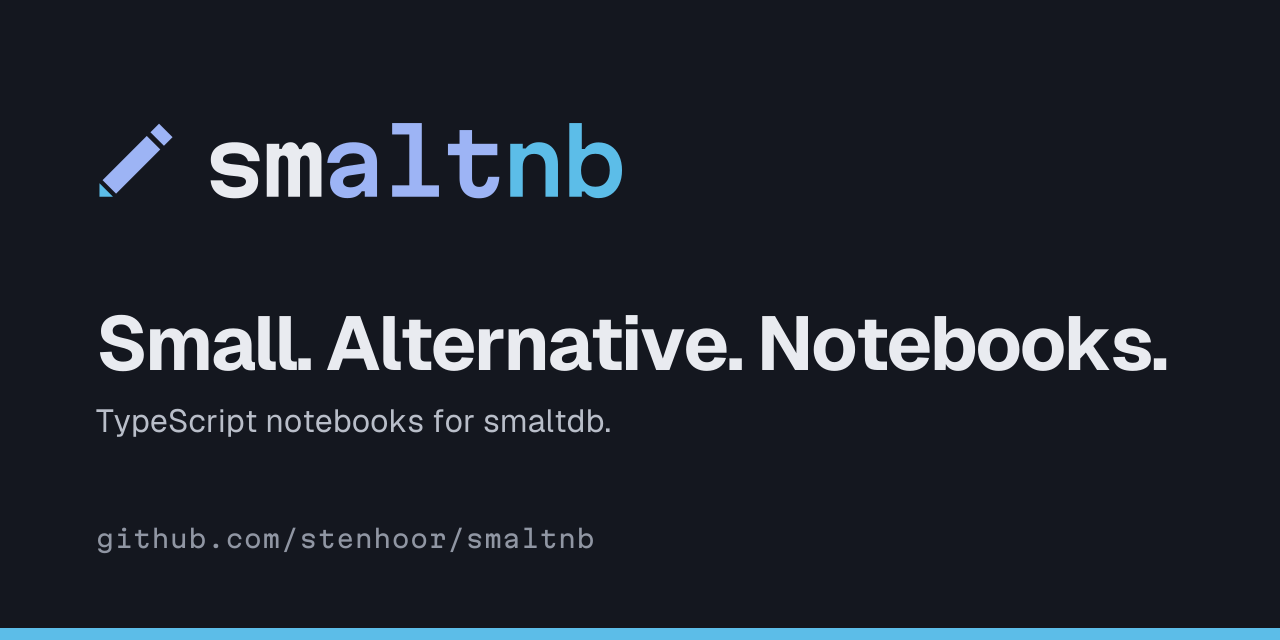
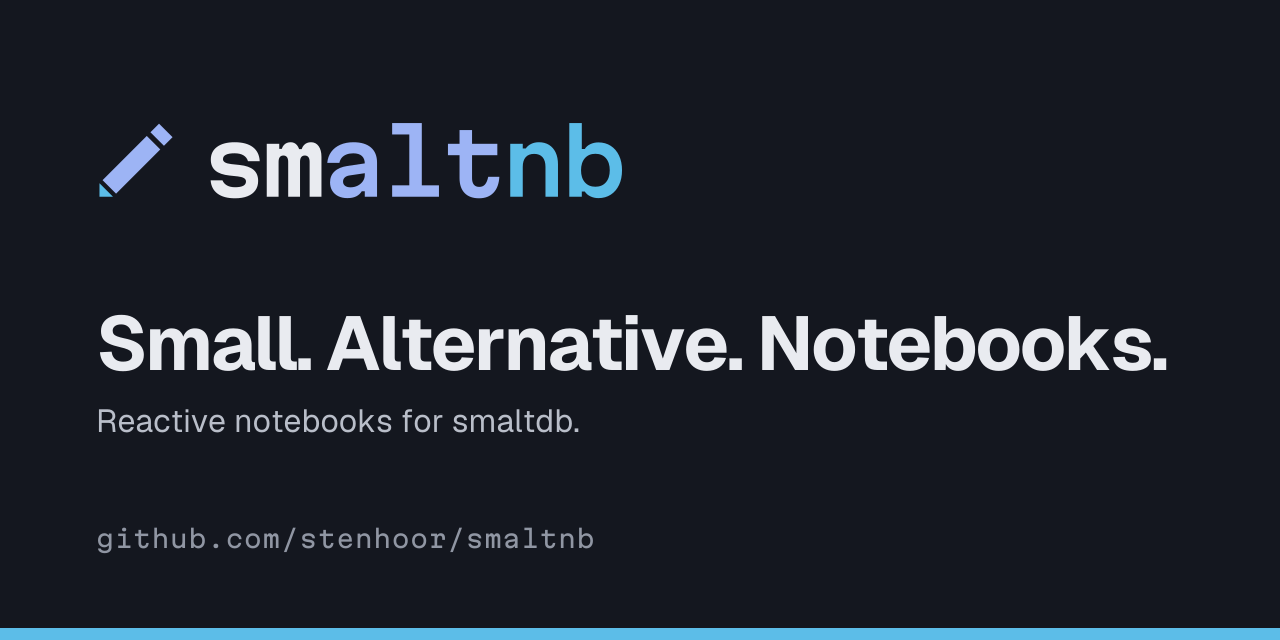
smaltnb: "Reactive notebooks for smaltdb."
The owner changed smaltnb's positioning from "TypeScript notebooks for
smaltdb.": a notebook holds SQL and dataframe cells as well as
TypeScript, and what sets it apart is that cells rerun when what they read
changes. Recorded in DECISIONS.md (the first pick stays noted); BRAND.md's
product table, the README, the brand site (home, products, smaltnb) and
the social card follow. The smaltnb product page also no longer says the
notebook page is next: it is out, and linked.

social/smaltnb.svg and .png are regenerated by scripts/social_cards.py
with Geist and Martian Mono from google/fonts; with those fonts the other
cards' SVGs come out identical, so only smaltnb's card is committed.

Claude-Session: https://claude.ai/code/session_01M2meru5ALzpH6trsjEDaiR

Changed region(s): [[0.0625, 0.625, 0.4688, 0.6875]]

diff --git a/scripts/social_cards.py b/scripts/social_cards.py
@@ -44,7 +44,7 @@ PRODUCTS = {
            "Dataframes for smaltdb. Small and fast.",
            "github.com/stenhoor/smaltdf"),
     "nb": ("Small. Alternative. Notebooks.",
-           "TypeScript notebooks for smaltdb.",
+           "Reactive notebooks for smaltdb.",
            "github.com/stenhoor/smaltnb"),
     "ql": ("Small. Alternative. Familiar.",
            "The SQL you know, for smaltdb.",

diff --git a/README.md b/README.md
@@ -7,7 +7,7 @@
 
 **Small. Alternative. Together.**
 
-Brand assets and design tokens for smaltworks and the smalt projects: [smaltdb](https://github.com/stenhoor/smaltdb), a fast alternative database for the browser, written in TypeScript; [smaltui](https://github.com/stenhoor/smaltui), a SQL console for smaltdb that runs entirely in the browser; [smaltbi](https://github.com/stenhoor/smaltbi), business intelligence in the browser, powered by smaltdb; [smaltdf](https://github.com/stenhoor/smaltdf), dataframes for smaltdb, small and fast; [smaltnb](https://github.com/stenhoor/smaltnb), TypeScript notebooks for smaltdb; [smaltql](https://github.com/stenhoor/smaltql), the SQL you know, for smaltdb; and smaltts, smaltdb, straight from TypeScript. Docs: [smaltdb.dev](https://smaltdb.dev).
+Brand assets and design tokens for smaltworks and the smalt projects: [smaltdb](https://github.com/stenhoor/smaltdb), a fast alternative database for the browser, written in TypeScript; [smaltui](https://github.com/stenhoor/smaltui), a SQL console for smaltdb that runs entirely in the browser; [smaltbi](https://github.com/stenhoor/smaltbi), business intelligence in the browser, powered by smaltdb; [smaltdf](https://github.com/stenhoor/smaltdf), dataframes for smaltdb, small and fast; [smaltnb](https://github.com/stenhoor/smaltnb), reactive notebooks for smaltdb; [smaltql](https://github.com/stenhoor/smaltql), the SQL you know, for smaltdb; and smaltts, smaltdb, straight from TypeScript. Docs: [smaltdb.dev](https://smaltdb.dev).
 
 <p>
   <picture><source media="(prefers-color-scheme: dark)" srcset="logos/smaltdb/lockup-on-dark.svg"><img alt="smaltdb" src="logos/smaltdb/lockup.svg" width="200"></picture>

diff --git a/BRAND.md b/BRAND.md
@@ -204,7 +204,7 @@ smaltworks keeps kiln orange: it is the family, not a layer. The `product-*` tok
 | Layer | Engine | Languages | Languages | Languages | User tools | User tools | User tools |
 | What it is | The engine | The SQL | The dataframes | The typed API | The SQL console | The reports | The notebooks |
 | Tagline | Small. Alternative. Fast. | Small. Alternative. Familiar. | Small. Alternative. Frames. | Small. Alternative. Typed. | Small. Alternative. Query. | Small. Alternative. Insight. | Small. Alternative. Notebooks. |
-| Positioning | A fast alternative database for the browser, written in TypeScript. | The SQL you know, for smaltdb. | Dataframes for smaltdb. Small and fast. | smaltdb, straight from TypeScript. | A SQL console for smaltdb that runs entirely in the browser. | Business intelligence in the browser, powered by smaltdb. | TypeScript notebooks for smaltdb. |
+| Positioning | A fast alternative database for the browser, written in TypeScript. | The SQL you know, for smaltdb. | Dataframes for smaltdb. Small and fast. | smaltdb, straight from TypeScript. | A SQL console for smaltdb that runs entirely in the browser. | Business intelligence in the browser, powered by smaltdb. | Reactive notebooks for smaltdb. |
 | Mark | Grain | Star (`*`) | Axes | Generic (`<T>`) | Chevron (`>` and `_`) | Scatter | Pencil |
 | Logos | `logos/smaltdb/` | `logos/smaltql/` | `logos/smaltdf/` | `logos/smaltts/` | `logos/smaltui/` | `logos/smaltbi/` | `logos/smaltnb/` |
 

diff --git a/site/products/smaltnb.md b/site/products/smaltnb.md
@@ -2,13 +2,13 @@
 
 <StageBadge />
 
-**Small. Alternative. Notebooks.** TypeScript notebooks for smaltdb.
+**Small. Alternative. Notebooks.** Reactive notebooks for smaltdb.
 
-smaltnb is inspired by Jupyter and marimo: a notebook for working through data step by step, scripted in TypeScript.
-Notebooks are reactive: change a cell and the cells that depend on it run again. One notebook will mix TypeScript, SQL
-on smaltdb and smaltdf dataframe cells, with charts from the smalt [kits](/products/kits).
+smaltnb is inspired by marimo, Jupyter and JupyterLab: a notebook for working through data step by step. Notebooks are
+reactive: change a cell and the cells that depend on it run again. One notebook mixes SQL on smaltdb, smaltdf dataframe
+and TypeScript cells, with charts from the smalt [kits](/products/kits).
 
-**Status:** in early development, not yet published. Notebooks run, with SQL and smaltdf cells, outside the page; the
-notebook page is next. See [its status page](https://stenhoor.github.io/smaltnb/guide/status).
+**Status:** in early development, not yet published. [Open a notebook](https://stenhoor.github.io/smaltnb/app/): it runs
+in your browser, with SQL and smaltdf cells. See [its status page](https://stenhoor.github.io/smaltnb/guide/status).
 
 [Read the docs →](https://stenhoor.github.io/smaltnb/) · [Repository →](https://github.com/stenhoor/smaltnb)

diff --git a/DECISIONS.md b/DECISIONS.md
@@ -180,7 +180,7 @@ The options were shown on the family canvas:
 | | **Picked** |
 | --- | --- |
 | Tagline | **"Small. Alternative. Notebooks."** |
-| Positioning | **"TypeScript notebooks for smaltdb."** |
+| Positioning | **"Reactive notebooks for smaltdb."** (changed 2026-11-07, below; first pick "TypeScript notebooks for smaltdb.") |
 | Mark | **Pencil:** a 45° pencil, its point in the product colour |
 | Colour | **Cobalt magenta:** `#B0249F` fill, `#981C89` text (light), `#F57FE6` (dark) |
 
@@ -189,6 +189,7 @@ Applied after the picks:
 - The Pencil is the same drawing at every size; at 16 px its magenta point is about two pixels (owner's decision).
 - A 45° pencil resembles the common "edit" icon. The smalt body and magenta point set it apart, but avoid placing it beside edit buttons in a toolbar.
 - The magenta is at least CIELAB distance 33 from the smaltbi violet in light and 34 in dark. The badge text is at least 7.3:1 on its light surface and 7.1:1 on its dark one.
+- Positioning changed to **"Reactive notebooks for smaltdb."** (owner, 2026-11-07). A notebook holds SQL (smaltql) and dataframe (smaltdf) cells as well as TypeScript, so "TypeScript notebooks" undersold it; what sets it apart is that cells rerun when what they read changes. smaltnb's DESIGN.md decision 1 uses the same line everywhere.
 
 ## smaltql
 

diff --git a/site/products/index.md b/site/products/index.md
@@ -10,7 +10,7 @@ site or repository with the full details; these pages are the overview.
 <ProductCard product="ts" tagline="Small. Alternative. Typed." line="smaltdb, straight from TypeScript." status="Planned" href="/products/smaltts" />
 <ProductCard product="ui" tagline="Small. Alternative. Query." line="A SQL console for smaltdb that runs entirely in the browser." status="0.1.0 · live demo" href="/products/smaltui" />
 <ProductCard product="bi" tagline="Small. Alternative. Insight." line="Business intelligence in the browser, powered by smaltdb." status="0.1.0 · live demo" href="/products/smaltbi" />
-<ProductCard product="nb" tagline="Small. Alternative. Notebooks." line="TypeScript notebooks for smaltdb." status="In early development" href="/products/smaltnb" />
+<ProductCard product="nb" tagline="Small. Alternative. Notebooks." line="Reactive notebooks for smaltdb." status="In early development" href="/products/smaltnb" />
 </div>
 
 - [Plugins](/products/plugins): the formats and data sources smaltdb can load, and how others can build their own.

diff --git a/site/index.md b/site/index.md
@@ -40,7 +40,7 @@ There is no second engine for dataframes and no server to set up.
 <ProductCard product="ts" tagline="Small. Alternative. Typed." line="smaltdb, straight from TypeScript." status="Planned" href="/products/smaltts" />
 <ProductCard product="ui" tagline="Small. Alternative. Query." line="A SQL console for smaltdb that runs entirely in the browser." status="0.1.0 · live demo" href="/products/smaltui" />
 <ProductCard product="bi" tagline="Small. Alternative. Insight." line="Business intelligence in the browser, powered by smaltdb." status="0.1.0 · live demo" href="/products/smaltbi" />
-<ProductCard product="nb" tagline="Small. Alternative. Notebooks." line="TypeScript notebooks for smaltdb." status="In early development" href="/products/smaltnb" />
+<ProductCard product="nb" tagline="Small. Alternative. Notebooks." line="Reactive notebooks for smaltdb." status="In early development" href="/products/smaltnb" />
 </div>
 
 ## Small data deserves good tools
